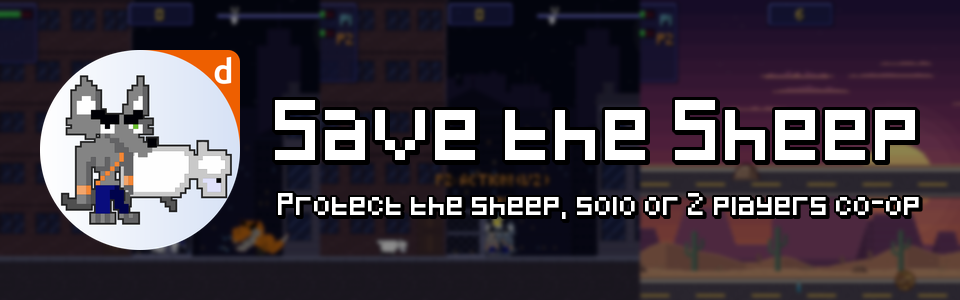
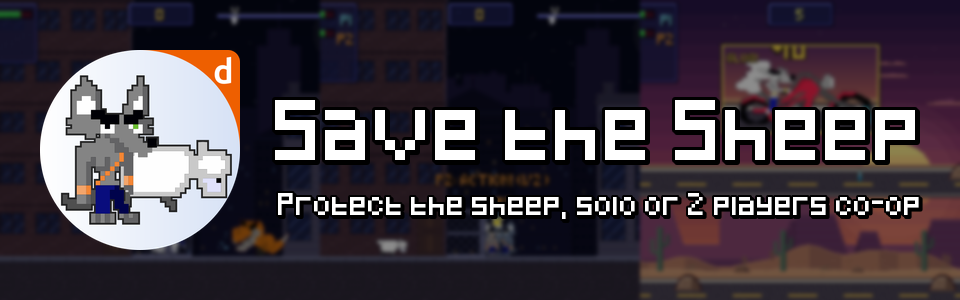
upd 2 player game

diff --git a/export/itchio/description.html b/export/itchio/description.html
@@ -1,9 +1,24 @@
 <h1>🐑 Save the Sheep</h1>
 <p><strong>An arcade action game where you keep the sheep alive to finish every level, alone or with a friend.</strong></p>
-<p>👥 <strong>New: 2 players co-op on the same screen!</strong></p>
+<h2>👥 New: 2 players co-op on the same screen!</h2>
+<p>Grab a friend, a sibling or your kid: pick <strong>2 PLAYERS</strong> in the menu and save the sheep <strong>together</strong> through the whole adventure, bonus level included.</p>
 <p><img src="https://raw.githubusercontent.com/imikado/dupotSaveTheSheep/main/export/promo/save_the_sheep.gif" alt="Gordon jumps over a gate to open it for the sheep, blasts a T-Rex with his water gun and rides his motorbike in the bonus level, then two players open a gate together and race two motorbikes"></p>
 <p>Gordon has one job: <strong>protect the sheep</strong>. The sheep walks on its own, and Gordon has to clear the way so it can reach the end of each level in one piece.</p>
 <p>If the sheep doesn't make it, neither do you! 🐾</p>
+<hr>
+<h2>🤝 Play together</h2>
+<ul>
+  <li>🎮 <strong>Any setup</strong>: two players on <strong>one keyboard</strong>, a <strong>keyboard + a gamepad</strong>, or <strong>two gamepads</strong>. A gamepad plugged in? Player 2 takes it.</li>
+  <li>⌨ <strong>Your keys, your way</strong>: every key and gamepad button can be changed before the game starts, and the setup is remembered for next time</li>
+  <li>🧪 <strong>Try before you play</strong>: each player tests their controls with their own Gordon in the <strong>TEST</strong> area, then <strong>START</strong></li>
+  <li>🚪 <strong>Teamwork required</strong>: gates and elevators only move once <strong>both players pull the handle</strong></li>
+  <li>❤ <strong>Two life bars</strong>: each player has their own life bar, the sheep's life is shared</li>
+  <li>💫 <strong>Never out for long</strong>: a fallen partner is back at the next level</li>
+  <li>🏍 <strong>Two motorbikes, two roads</strong>: in the bonus level each player rides their own bike</li>
+  <li>🐺 <strong>Two Gordons</strong>: <em>P1</em> in blue, <em>P2</em> in orange, with tags above their heads</li>
+</ul>
+<p><img src="https://raw.githubusercontent.com/imikado/dupotSaveTheSheep/main/export/Linux/screenshots/level_01_two_players.png" alt="Two players pull the handle together to open a gate for the sheep"></p>
+<p><img src="https://raw.githubusercontent.com/imikado/dupotSaveTheSheep/main/export/Linux/screenshots/bonus_level_two_players.png" alt="Two players ride two motorbikes on two roads in the bonus level"></p>
 <hr>
 <h2>✨ Features</h2>
 <ul>
@@ -12,7 +27,7 @@
   <li>🚪 <strong>Action handle</strong>: open gates to let the sheep through</li>
   <li>🛗 <strong>Elevators</strong>: turn them on to carry the sheep over obstacles</li>
   <li>🏍 <strong>Bonus level</strong>: ride the motorbike, jump the rocks and grab water and desserts before time runs out</li>
-  <li>👥 <strong>2 players co-op</strong>: play together on the same screen, each player with his own life bar; gates and elevators only move once both players pull the handle, and the bonus level gets two motorbikes on two roads</li>
+  <li>👥 <strong>Solo or 2 players co-op</strong> on the same screen, on one keyboard or with gamepads</li>
   <li>👶 <strong>For everyone</strong>: suitable from age 3</li>
 </ul>
 <h2>🎮 Controls</h2>
@@ -25,7 +40,7 @@
   <li><strong>Esc</strong>: pause</li>
   <li><strong>M</strong>: sound on / off</li>
 </ul>
-<p><strong>2 players</strong> (shared keyboard)</p>
+<p><strong>2 players</strong> (shared keyboard, default keys)</p>
 <table>
   <tr><th></th><th>Player 1</th><th>Player 2</th></tr>
   <tr><td>Move</td><td>Q D (A D on QWERTY)</td><td>← →</td></tr>
@@ -33,7 +48,7 @@
   <tr><td>Shoot</td><td>F</td><td>L</td></tr>
   <tr><td>Action</td><td>G</td><td>K</td></tr>
 </table>
-<p>After <strong>1 PLAYER</strong> or <strong>2 PLAYERS</strong> in the menu, each player picks keyboard or gamepad, can change his keys and try them in the test area before <strong>START</strong>.</p>
+<p>After <strong>1 PLAYER</strong> or <strong>2 PLAYERS</strong> in the menu, each player picks keyboard or gamepad, can change their keys and try them in the test area before <strong>START</strong>.</p>
 <p>🕹 Gamepads are supported too, and touch screens get on-screen controls.</p>
 <hr>
 <h2>🐧 Also on Linux</h2>

diff --git a/export/itchio/ITCHIO.md b/export/itchio/ITCHIO.md
@@ -38,10 +38,25 @@ Généré par `generate_itchio.sh` : ne pas modifier à la main, régler les var
 ```html
 <h1>🐑 Save the Sheep</h1>
 <p><strong>An arcade action game where you keep the sheep alive to finish every level, alone or with a friend.</strong></p>
-<p>👥 <strong>New: 2 players co-op on the same screen!</strong></p>
+<h2>👥 New: 2 players co-op on the same screen!</h2>
+<p>Grab a friend, a sibling or your kid: pick <strong>2 PLAYERS</strong> in the menu and save the sheep <strong>together</strong> through the whole adventure, bonus level included.</p>
 <p><img src="https://raw.githubusercontent.com/imikado/dupotSaveTheSheep/main/export/promo/save_the_sheep.gif" alt="Gordon jumps over a gate to open it for the sheep, blasts a T-Rex with his water gun and rides his motorbike in the bonus level, then two players open a gate together and race two motorbikes"></p>
 <p>Gordon has one job: <strong>protect the sheep</strong>. The sheep walks on its own, and Gordon has to clear the way so it can reach the end of each level in one piece.</p>
 <p>If the sheep doesn't make it, neither do you! 🐾</p>
+<hr>
+<h2>🤝 Play together</h2>
+<ul>
+  <li>🎮 <strong>Any setup</strong>: two players on <strong>one keyboard</strong>, a <strong>keyboard + a gamepad</strong>, or <strong>two gamepads</strong>. A gamepad plugged in? Player 2 takes it.</li>
+  <li>⌨ <strong>Your keys, your way</strong>: every key and gamepad button can be changed before the game starts, and the setup is remembered for next time</li>
+  <li>🧪 <strong>Try before you play</strong>: each player tests their controls with their own Gordon in the <strong>TEST</strong> area, then <strong>START</strong></li>
+  <li>🚪 <strong>Teamwork required</strong>: gates and elevators only move once <strong>both players pull the handle</strong></li>
+  <li>❤ <strong>Two life bars</strong>: each player has their own life bar, the sheep's life is shared</li>
+  <li>💫 <strong>Never out for long</strong>: a fallen partner is back at the next level</li>
+  <li>🏍 <strong>Two motorbikes, two roads</strong>: in the bonus level each player rides their own bike</li>
+  <li>🐺 <strong>Two Gordons</strong>: <em>P1</em> in blue, <em>P2</em> in orange, with tags above their heads</li>
+</ul>
+<p><img src="https://raw.githubusercontent.com/imikado/dupotSaveTheSheep/main/export/Linux/screenshots/level_01_two_players.png" alt="Two players pull the handle together to open a gate for the sheep"></p>
+<p><img src="https://raw.githubusercontent.com/imikado/dupotSaveTheSheep/main/export/Linux/screenshots/bonus_level_two_players.png" alt="Two players ride two motorbikes on two roads in the bonus level"></p>
 <hr>
 <h2>✨ Features</h2>
 <ul>
@@ -50,7 +65,7 @@ Généré par `generate_itchio.sh` : ne pas modifier à la main, régler les var
   <li>🚪 <strong>Action handle</strong>: open gates to let the sheep through</li>
   <li>🛗 <strong>Elevators</strong>: turn them on to carry the sheep over obstacles</li>
   <li>🏍 <strong>Bonus level</strong>: ride the motorbike, jump the rocks and grab water and desserts before time runs out</li>
-  <li>👥 <strong>2 players co-op</strong>: play together on the same screen, each player with his own life bar; gates and elevators only move once both players pull the handle, and the bonus level gets two motorbikes on two roads</li>
+  <li>👥 <strong>Solo or 2 players co-op</strong> on the same screen, on one keyboard or with gamepads</li>
   <li>👶 <strong>For everyone</strong>: suitable from age 3</li>
 </ul>
 <h2>🎮 Controls</h2>
@@ -63,7 +78,7 @@ Généré par `generate_itchio.sh` : ne pas modifier à la main, régler les var
   <li><strong>Esc</strong>: pause</li>
   <li><strong>M</strong>: sound on / off</li>
 </ul>
-<p><strong>2 players</strong> (shared keyboard)</p>
+<p><strong>2 players</strong> (shared keyboard, default keys)</p>
 <table>
   <tr><th></th><th>Player 1</th><th>Player 2</th></tr>
   <tr><td>Move</td><td>Q D (A D on QWERTY)</td><td>← →</td></tr>
@@ -71,7 +86,7 @@ Généré par `generate_itchio.sh` : ne pas modifier à la main, régler les var
   <tr><td>Shoot</td><td>F</td><td>L</td></tr>
   <tr><td>Action</td><td>G</td><td>K</td></tr>
 </table>
-<p>After <strong>1 PLAYER</strong> or <strong>2 PLAYERS</strong> in the menu, each player picks keyboard or gamepad, can change his keys and try them in the test area before <strong>START</strong>.</p>
+<p>After <strong>1 PLAYER</strong> or <strong>2 PLAYERS</strong> in the menu, each player picks keyboard or gamepad, can change their keys and try them in the test area before <strong>START</strong>.</p>
 <p>🕹 Gamepads are supported too, and touch screens get on-screen controls.</p>
 <hr>
 <h2>🐧 Also on Linux</h2>

diff --git a/README.md b/README.md
@@ -10,7 +10,9 @@
 
 *Run, jump, blast dinosaurs with your water gun and get the sheep home safe, alone or with a friend.*
 
-**👥 New: [2 players co-op on the same screen](#-play-together-on-one-screen)!**
+### 👥 New: 2 players co-op on the same screen!
+
+Grab a friend, a sibling or your kid and save the sheep **together**: one keyboard or gamepads, two Gordons, one sheep. **[See how it works ↓](#-play-together-on-one-screen)**
 
 **[▶ Play it now in your browser](https://dupot-org.itch.io/save-the-sheep)** · **[Get it on Flathub](https://flathub.org/apps/org.dupot.savethesheep)**
 
@@ -28,19 +30,6 @@ Free · 1–2 players · Age 3+ · Linux x86_64 & aarch64 · Web · Made with Go
 </div>
 
 ---
-
-## 📖 About
-
-Gordon has one job: **protect the sheep**. The sheep walks on its own, and Gordon has to clear the way so it can reach the end of each level in one piece.
-
-- 🌃 **A city at night**: run and jump across rooftops, streets and building sites under a starry sky
-- 💦 **Water gun**: blast the enemies (dinosaurs included!) before they reach the sheep
-- 🚪 **Action handle**: open gates to let the sheep through
-- 🛗 **Elevators**: turn them on to carry the sheep over obstacles
-- 🏍 **Bonus level**: ride the motorbike, jump the rocks and grab water and desserts before time runs out
-- 👥 **Solo or 2 players co-op on the same screen**: see [Play together on one screen](#-play-together-on-one-screen)
-
-If the sheep doesn't make it, neither do you.
 
 ## 👥 Play together on one screen
 
@@ -62,6 +51,19 @@ Grab a friend: pick **2 PLAYERS** in the menu and save the sheep together throug
 | ![Keys of the two players](export/Linux/screenshots/menu_two_players.png) | ![Two players open a gate together](export/Linux/screenshots/level_01_two_players.png) | ![Two motorbikes in the bonus level](export/Linux/screenshots/bonus_level_two_players.png) |
 
 </div>
+
+## 📖 About
+
+Gordon has one job: **protect the sheep**. The sheep walks on its own, and Gordon has to clear the way so it can reach the end of each level in one piece.
+
+- 🌃 **A city at night**: run and jump across rooftops, streets and building sites under a starry sky
+- 💦 **Water gun**: blast the enemies (dinosaurs included!) before they reach the sheep
+- 🚪 **Action handle**: open gates to let the sheep through
+- 🛗 **Elevators**: turn them on to carry the sheep over obstacles
+- 🏍 **Bonus level**: ride the motorbike, jump the rocks and grab water and desserts before time runs out
+- 👥 **Solo or 2 players co-op on the same screen**: see [Play together on one screen](#-play-together-on-one-screen)
+
+If the sheep doesn't make it, neither do you.
 
 ## 📸 Screenshots
 
